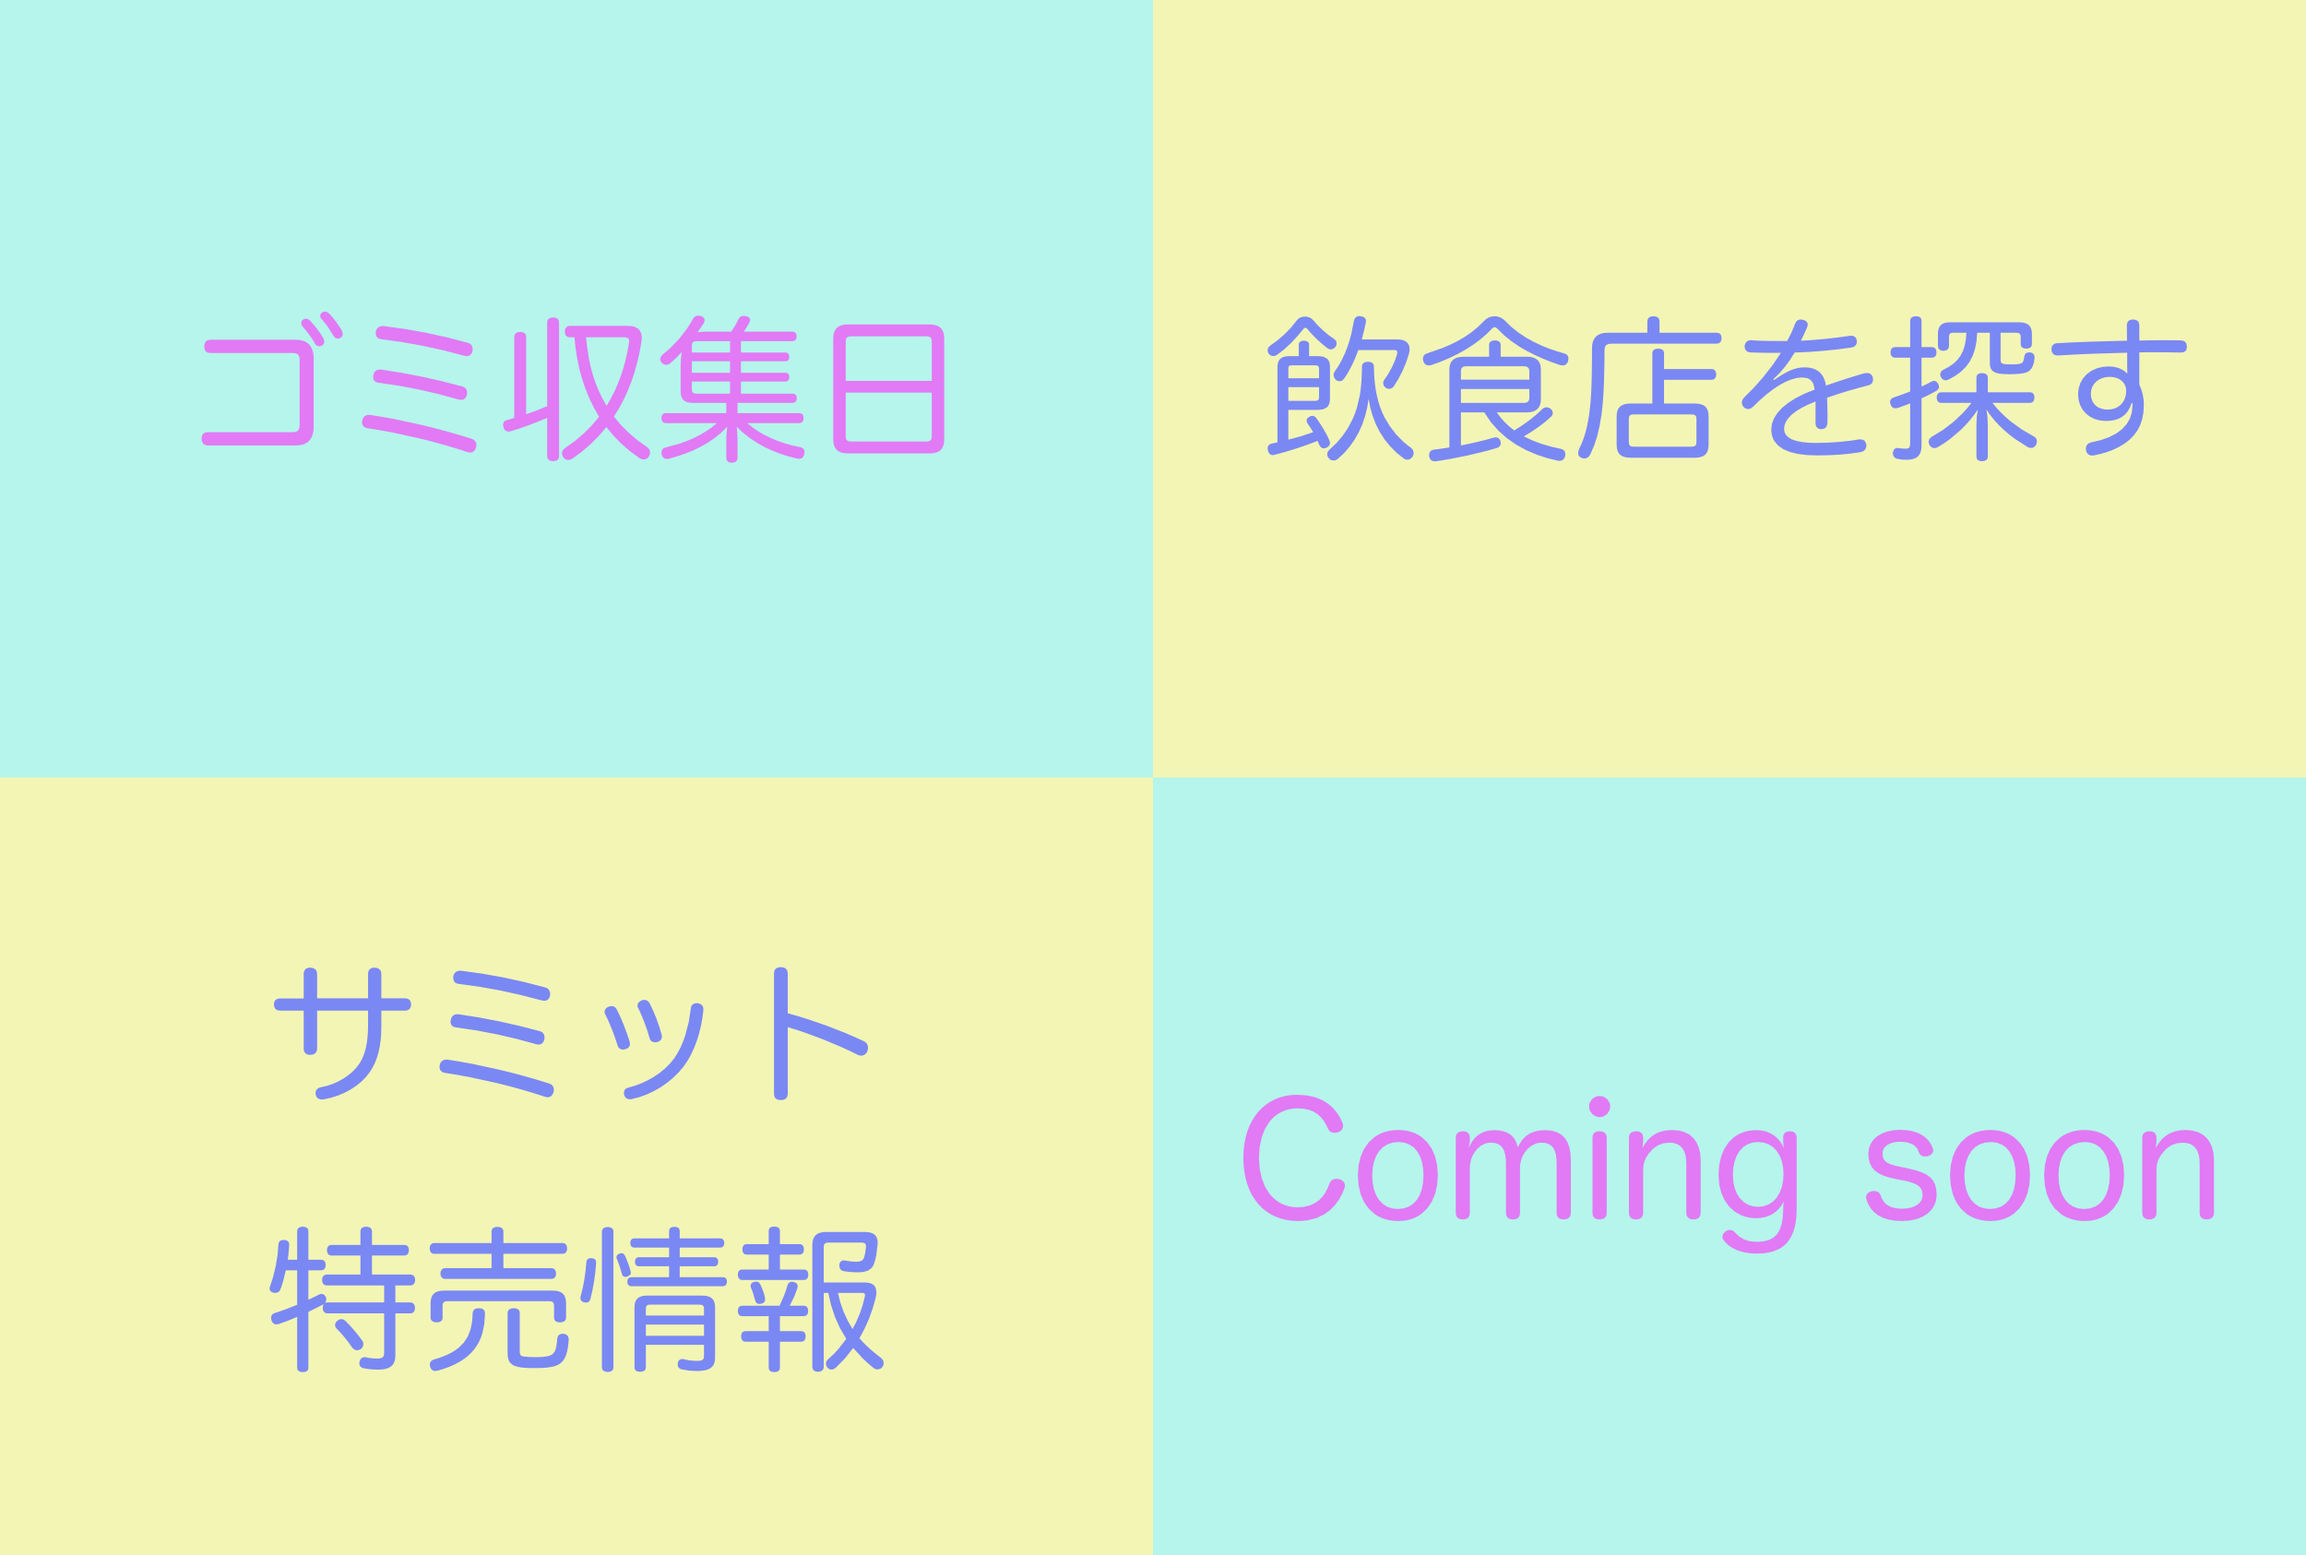
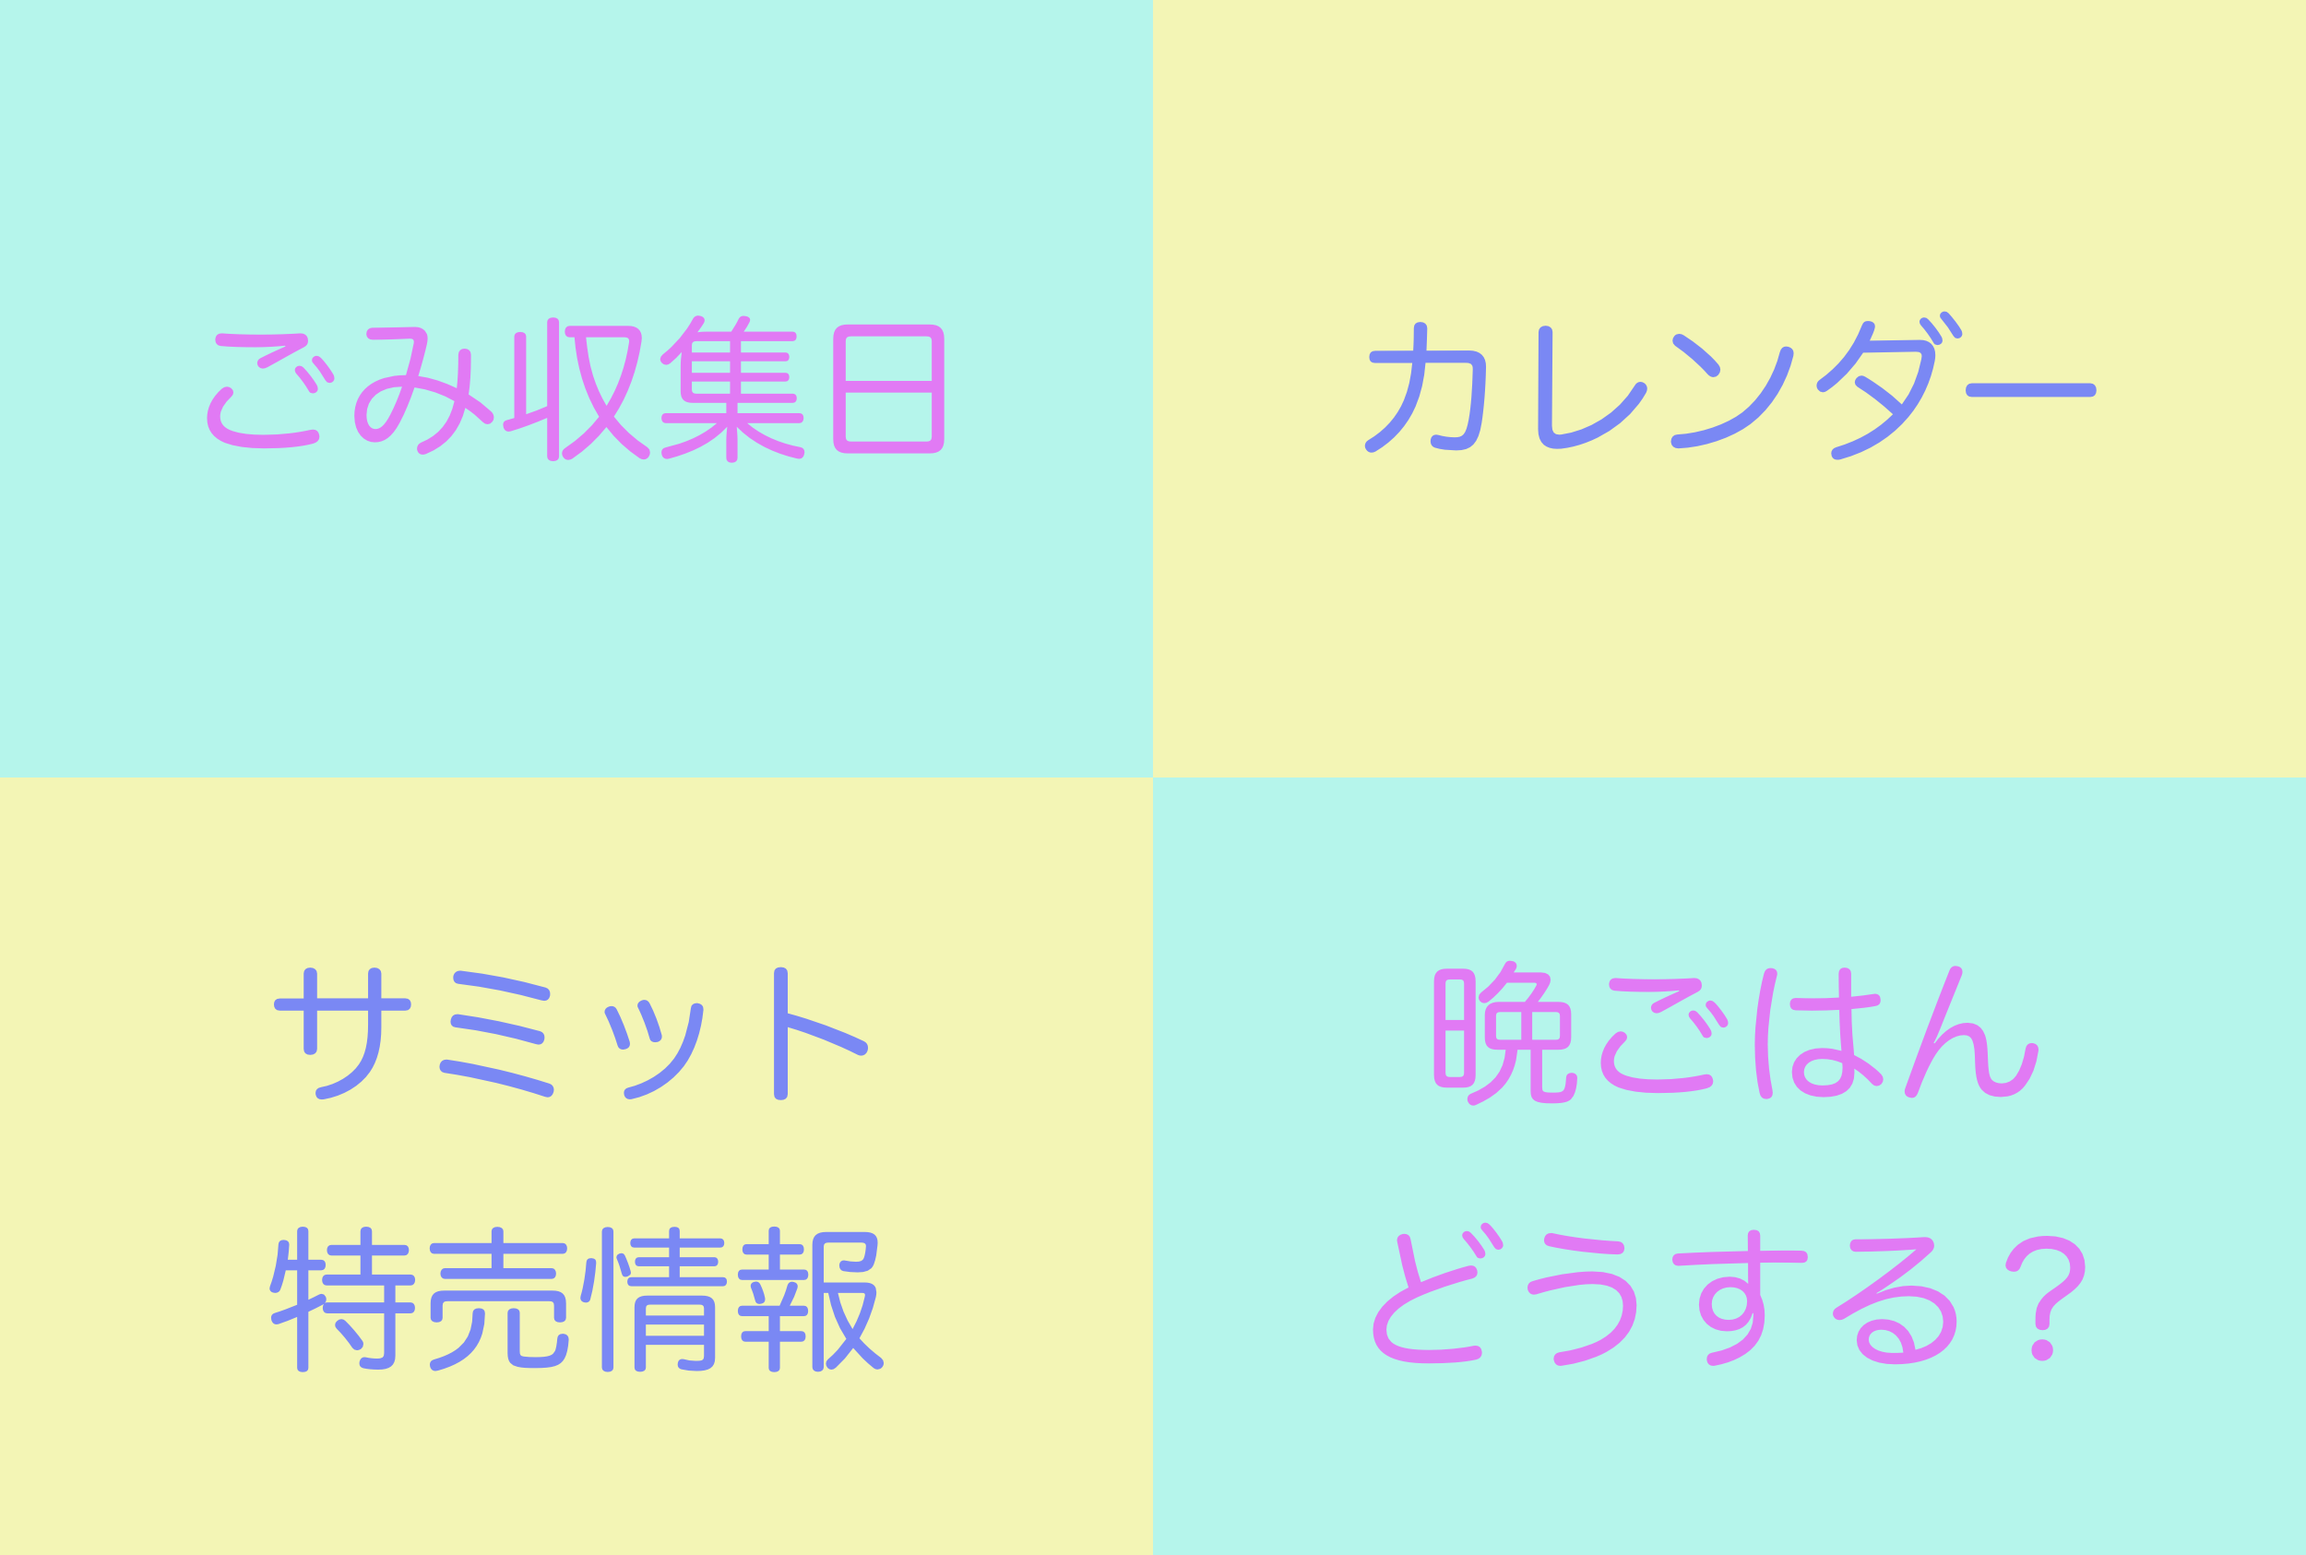
fix

Changed region(s): [[0.5304, 0.6168, 0.9672, 0.8944], [0.5304, 0.1851, 0.936, 0.3084], [0.0936, 0.1851, 0.2184, 0.3084]]

diff --git a/src/line/richMenu/area.js b/src/line/richMenu/area.js
@@ -17,12 +17,12 @@ export const area4 = [
   // A
   {
     bounds: { x: x[0], y: y[0], width, height },
-    action: { type: 'message', text: 'ゴミ収集日' },
+    action: { type: 'message', text: 'ごみ収集日' },
   },
   // B
   {
     bounds: { x: x[1], y: y[0], width, height },
-    action: { type: 'message', text: '飲食店を探す' },
+    action: { type: 'message', text: 'カレンダー' },
   },
   // C
   {
@@ -43,4 +43,4 @@ export const richMenuConfig = {
   size: { width: maxWidth, height: maxHeight },
   areas: area4,
 }
-export const imagePath = './src/config/richMenu/images/area4.png'
+export const imagePath = './src/line/richMenu/images/area4.png'

diff --git a/src/controllers/messageAPIController.js b/src/controllers/messageAPIController.js
@@ -55,6 +55,10 @@ class MessageAPIController {
         const text = await garbageController.getSchedule()
         return { type: 'text', text }
       }
+      // カレンダー
+      case textRegExp.calender.test(getText): {
+        return defaultResponse
+      }
       // 暇かどうか
       case textRegExp.freeTime.test(getText): {
         baseTemplate.template = {

diff --git a/src/config/index.js b/src/config/index.js
@@ -4,7 +4,8 @@ export const WEEKDAY_LIST = ['日', '月', '火', '水', '木', '金', '土']
 
 export const textRegExp = {
   garbage: /ゴミ|ごみ|収集/,
-  freeTime: /レストラン|飲食|食事/,
+  calender: /カレンダー/,
+  freeTime: /フリータイム/,
 }
 
 export const garbageConf = {

diff --git a/src/line/richMenu/index.js b/src/line/richMenu/index.js
@@ -1,5 +1,5 @@
 import fs from 'fs'
-import { lineClient } from '../line.js'
+import { lineClient } from '../index.js'
 import { imagePath, richMenuConfig } from './area.js'
 
 class RichMenu {
